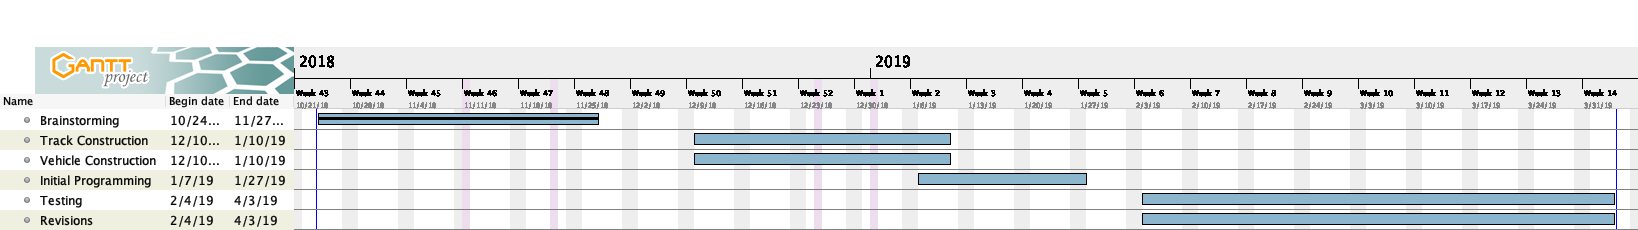
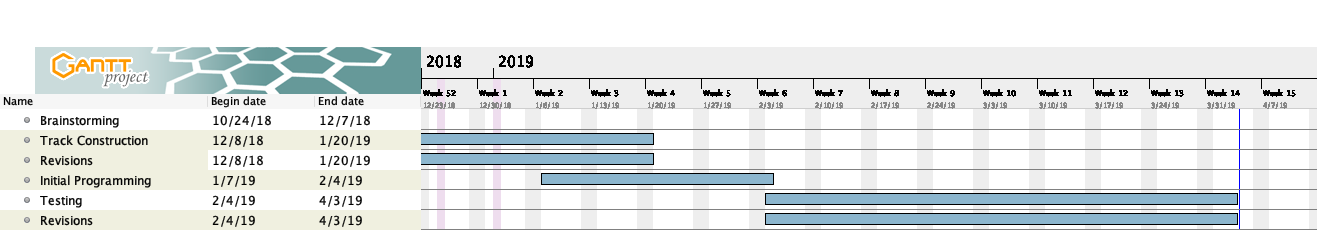
Update 1/9/19
Some chart dates were wrong.

diff --git a/docs/index-tasks.html b/docs/index-tasks.html
@@ -162,7 +162,7 @@ h5.header {
                         </div>
                     </td><td valign="top" class="cell">
                         <div style="margin:0; padding:0; padding-left:0.5em">
-                            <div style="margin: 0; padding: 0;">11/27/18</div>
+                            <div style="margin: 0; padding: 0;">12/7/18</div>
                         </div>
                     </td><td valign="top" class="cell"></td>
                 </tr>
@@ -173,11 +173,11 @@ h5.header {
                         </div>
                     </td><td valign="top" class="cell">
                         <div style="margin:0; padding:0; padding-left:0.5em">
-                            <div style="margin: 0; padding: 0;">12/10/18</div>
+                            <div style="margin: 0; padding: 0;">12/8/18</div>
                         </div>
                     </td><td valign="top" class="cell">
                         <div style="margin:0; padding:0; padding-left:0.5em">
-                            <div style="margin: 0; padding: 0;">1/10/19</div>
+                            <div style="margin: 0; padding: 0;">1/20/19</div>
                         </div>
                     </td><td valign="top" class="cell"></td>
                 </tr>
@@ -188,11 +188,11 @@ h5.header {
                         </div>
                     </td><td valign="top" class="cell">
                         <div style="margin:0; padding:0; padding-left:0.5em">
-                            <div style="margin: 0; padding: 0;">12/10/18</div>
+                            <div style="margin: 0; padding: 0;">12/8/18</div>
                         </div>
                     </td><td valign="top" class="cell">
                         <div style="margin:0; padding:0; padding-left:0.5em">
-                            <div style="margin: 0; padding: 0;">1/10/19</div>
+                            <div style="margin: 0; padding: 0;">1/20/19</div>
                         </div>
                     </td><td valign="top" class="cell"></td>
                 </tr>
@@ -207,7 +207,7 @@ h5.header {
                         </div>
                     </td><td valign="top" class="cell">
                         <div style="margin:0; padding:0; padding-left:0.5em">
-                            <div style="margin: 0; padding: 0;">1/27/19</div>
+                            <div style="margin: 0; padding: 0;">2/4/19</div>
                         </div>
                     </td><td valign="top" class="cell"></td>
                 </tr>
@@ -248,7 +248,7 @@ h5.header {
             <tr>
                 <td bgcolor="#6d9ec6" width="50%"><font color="#FFFFFF"><b>Ganttproject (2.8.9 Pilsen (build 2335))</b></font></td><td bgcolor="#6d9ec6" width="50%" align="right"><b><a href="http://ganttproject.biz">ganttproject.biz</a></b>
                     <br>
-                    <b>12/29/18 - 2:16:38 AM</b></td>
+                    <b>1/9/19 - 10:57:44 AM</b></td>
             </tr>
         </table>
     </body>

diff --git a/docs/index-chart.html b/docs/index-chart.html
@@ -123,7 +123,7 @@ div.page_links {
             <tr>
                 <td bgcolor="#6d9ec6" width="50%"><font color="#FFFFFF"><b>Ganttproject (2.8.9 Pilsen (build 2335))</b></font></td><td bgcolor="#6d9ec6" width="50%" align="right"><b><a href="http://ganttproject.biz">ganttproject.biz</a></b>
                     <br>
-                    <b>12/29/18 - 2:16:38 AM</b></td>
+                    <b>1/9/19 - 10:57:44 AM</b></td>
             </tr>
         </table>
     </body>

diff --git a/docs/index.html b/docs/index.html
@@ -152,7 +152,7 @@ div.page_links {
             <tr>
                 <td bgcolor="#6d9ec6" width="50%"><font color="#FFFFFF"><b>Ganttproject (2.8.9 Pilsen (build 2335))</b></font></td><td bgcolor="#6d9ec6" width="50%" align="right"><b><a href="http://ganttproject.biz">ganttproject.biz</a></b>
                     <br>
-                    <b>12/29/18 - 2:16:38 AM</b></td>
+                    <b>1/9/19 - 10:57:44 AM</b></td>
             </tr>
         </table>
     </body>

diff --git a/docs/index-resources.html b/docs/index-resources.html
@@ -158,7 +158,7 @@ h5.header {
             <tr>
                 <td bgcolor="#6d9ec6" width="50%"><font color="#FFFFFF"><b>Ganttproject (2.8.9 Pilsen (build 2335))</b></font></td><td bgcolor="#6d9ec6" width="50%" align="right"><b><a href="http://ganttproject.biz">ganttproject.biz</a></b>
                     <br>
-                    <b>12/29/18 - 2:16:38 AM</b></td>
+                    <b>1/9/19 - 10:57:44 AM</b></td>
             </tr>
         </table>
     </body>
